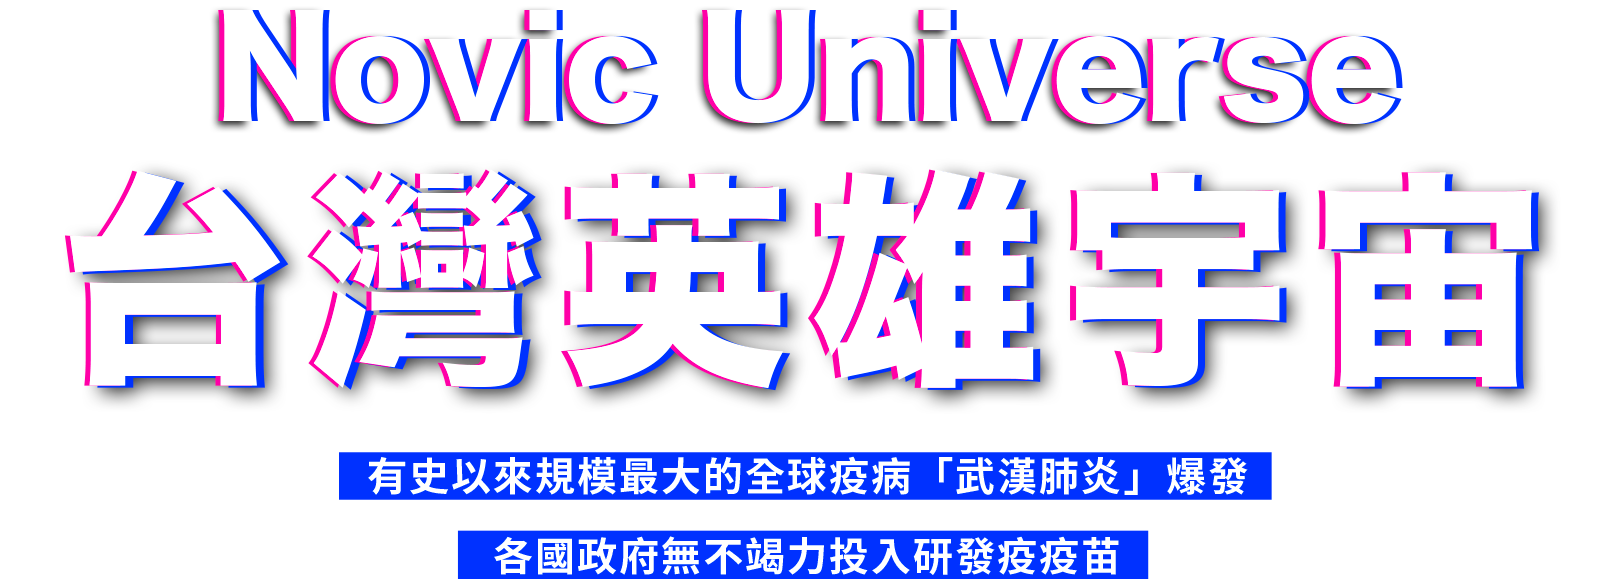
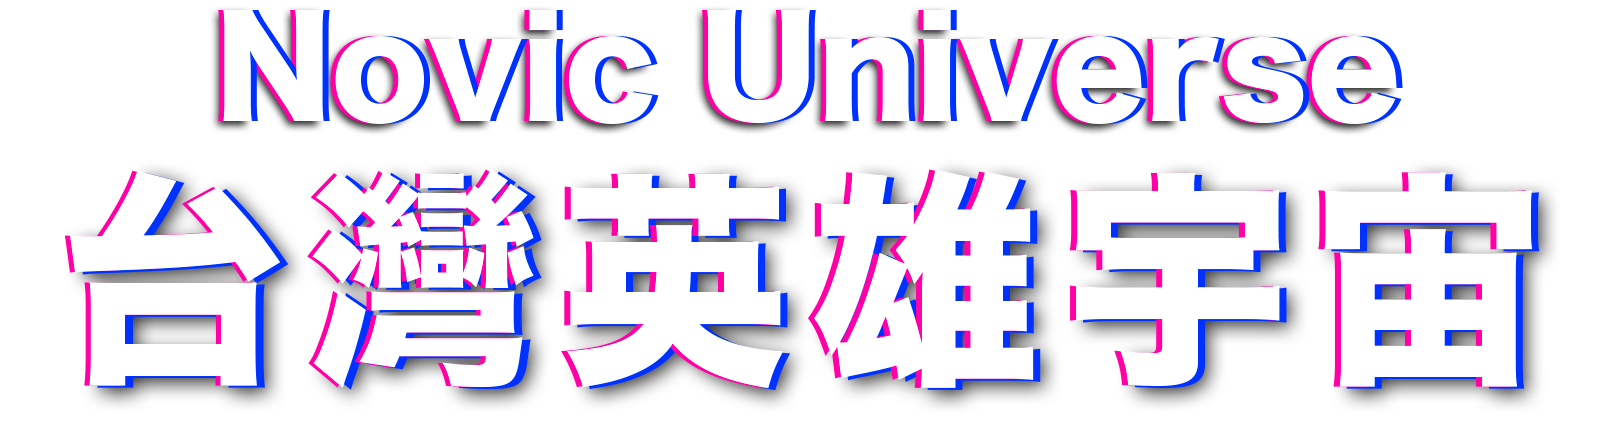
refactor: UI

diff --git a/index.html b/index.html
@@ -65,9 +65,18 @@
   <section id="main" class="pb-5">
     <div id="title">
       <img class="rounded mx-auto d-block logo" src="img/title.png" alt="">
-      <a href="https://lihi1.com/vHdGQ" target="_blank">
-        <img class="rounded mx-auto d-block pt-5 join_button" src="img/join.png" alt="" width="17%">
-      </a>
+
+      <div class="mt-4 d-flex flex-column align-items-center">
+        <h6 class="slogan">有史以來規模最大的全球疫病「武漢肺炎」爆發</h6>
+        <h6 class="mt-1 slogan">各國政府無不竭力投入研發疫疫苗</h6>
+      </div>
+
+      <div class="d-flex justify-content-center mt-4 p-2">
+        <a href="https://lihi1.com/vHdGQ" target="_blank">
+          <img class="rounded join_button" src="img/join.png" alt="Join Discord">
+        </a>
+      </div>
+
       <img src="img/ston_1.png" class="stons" id="ston_1" alt="">
       <img src="img/ston_3.png" class="stons" id="ston_3" alt="">
       <p class="text fw-bold">
@@ -108,15 +117,22 @@
         </div>
         <div class="col-6">
           <img src="img/images/char_1.png" class="d-block w-75 py-5" alt="">
-          <div class="w-50 ps-md-5 py-2">
-            <img src="img/images/change_04.png" class="img-fluid" alt="">
+
+          <div class="ps-md-5 property">
+            <p class="key">本名</p>
+            <p class="value">鄭宇明</p>
           </div>
-          <div class="w-50 ps-md-5 py-2">
-            <img src="img/images/change_07.png" class="img-fluid" alt="">
+
+          <div class="ps-md-5 property">
+            <p class="key">能力</p>
+            <p class="value">外型模變，複製長期記憶</p>
           </div>
-          <div class="w-50 ps-md-5 py-2">
-            <img src="img/images/change_09.png" class="img-fluid" alt="">
+
+          <div class="ps-md-5 property">
+            <p class="key">技能</p>
+            <p class="value">自由搏擊，心理學</p>
           </div>
+
           <div class="text-white w-75 story_text ps-md-5 py-5" >
             鄭宇明是台大心輔諮所博士，精通犯罪心理學的心理師。因為從小一起長大的摯友葉裕修染上毒癮，為就近照顧，鄭宇明畢業後選擇於煙毒勒戒所服務，不久，葉裕修因過量吸食毒品而暴斃。葉裕修的死讓鄭宇明悲痛欲絕，在發現自己的超能力後，為替好友復仇，也為了終結毒品對青少年的危害，鄭宇明潛入販毒集團，靠著模變的超能力及心理學專業知識，企圖從內部瓦解販毒集團。
           </div>
@@ -128,19 +144,27 @@
         <div class="col-5 ps-5 ms-5">
           <img src="img/images/char_2.png" class="d-block w-75 py-3" alt="">
           <div class="ps-md-5 char_subtitle text-white">CPU</div>
-          <div class="w-md-75 ps-md-5 py-2">
-            <img src="img/images/cyber_1.png" class="img-fluid" alt="">
+
+          <div class="ps-md-5 property">
+            <p class="key">本名</p>
+            <p class="value">張杰</p>
           </div>
-          <div class="w-md-75 ps-md-5 py-2">
-            <img src="img/images/cyber_2.png" class="img-fluid" alt="">
+
+          <div class="ps-md-5 property">
+            <p class="key">能力</p>
+            <p class="value">機器語言，能與機械交談，從而進行維修與改造</p>
           </div>
 
           <div class="ps-md-5 char_subtitle text-white">PLAYER 2</div>
-          <div class="w-md-50 ps-md-5 py-2">
-            <img src="img/images/cyber_3.png" class="img-fluid" alt="">
+
+          <div class="ps-md-5 property">
+            <p class="key">本名</p>
+            <p class="value">趙曉鈴</p>
           </div>
-          <div class="w-md-50 ps-md-5 py-2">
-            <img src="img/images/cyber_4.png" class="img-fluid" alt="">
+
+          <div class="ps-md-5 property">
+            <p class="key">能力</p>
+            <p class="value">超人神經，超高速神經傳導，可以自由控制感官的時間流速</p>
           </div>
 
           <div class="text-white story_text ps-md-5 py-5" >
@@ -172,9 +196,13 @@
       不論你想聽故事或者創作故事，<br/>
       都歡迎加入我們的 Discord，一起來擴張 Novic Universe 吧！<br/><br/>
     </strong></p>
-    <a href="https://lihi1.com/vHdGQ" target="_blank">
-      <img class="rounded mx-auto d-block pt-5 join_button" src="img/join.png" alt="" width="17%">
-    </a>
+
+    <div class="d-flex justify-content-center mb-5 p-2">
+      <a href="https://lihi1.com/vHdGQ" target="_blank">
+        <img class="rounded join_button" src="img/join.png" alt="Join Discord">
+      </a>
+    </div>
+
   </section>
   <section id="utility" class="pb-5">
     <img class="rounded d-block pb-5" src="img/utility_ttl.png" alt="" width="66%">
@@ -274,7 +302,7 @@
         </div>
       </div>
       <div class="row justify-content-end mt-5">
-        <div class="col-8 roadmap_content">
+        <div class="col-lg-8 roadmap_content">
           <div class="row w-100 justify-content-center my-5 ps-3">
             <span class="roadmap_block_arrow col-1">
               >

diff --git a/main.css b/main.css
@@ -5,17 +5,20 @@
       url(./font/BIGJOHN.woff2) format('woff2'),
       url(./font/BIGJOHN.ttf) format('truetype');
 }
+
 #nav {
   width: 100%;
-  min-height: 100px;
+  min-height: 5rem;
   padding: 0;
   background-image: -moz-linear-gradient( 5deg, rgb(194,8,128) 0%, rgb(17,60,216) 100%);
   background-image: -webkit-linear-gradient( 5deg, rgb(194,8,128) 0%, rgb(17,60,216) 100%);
   background-image: -ms-linear-gradient( 5deg, rgb(194,8,128) 0%, rgb(17,60,216) 100%);
 }
+
 #nav-content {
   padding-right: 0;
 }
+
 .nav-link {
   display: block;
   text-decoration: none;
@@ -23,16 +26,17 @@
   font-size: 1.3rem;
   padding: 0;
 }
+
 .nav-item {
   min-width: 130px;
-  line-height: 100px;
   text-align: center;
 }
+
 .language {
   float: right;
   color: white;
   font-size: 1.3rem;
-  line-height: 100px;
+  line-height: 5rem;
   width: 130px;
   text-align: center;
   position: relative;
@@ -55,13 +59,19 @@
 .language:hover > .swith_language {
   display: block;
 }
+
 .logo {
   width: 50%;
 }
+
+.join_button {
+  height: 52px;
+}
+
 #main, #vision, #utility, #roadmap, #character, #mint {
   background-repeat: no-repeat;
   background-position: center;
-  background-size: 100% 100% ;
+  background-size: cover, 100%;
   min-width: 100%;
 }
 
@@ -70,17 +80,57 @@
   background-image: url('img/main_bg.jpg');
   position: relative;
 }
+
 #title, .text, #team, footer {
   padding-top: 15rem;
 }
+
+.slogan {
+  color: white;
+  background-color: blue;
+  padding: 0 0.75rem;
+  letter-spacing: 0.1rem;
+}
+
 .text, .footer_text {
   color: white;
   text-align: center;
   line-height: 2;
   font-size: 1.2rem;
 }
+
 p {
   margin-bottom: 0;
+}
+
+.property {
+  display: flex;
+  align-items: flex-start;
+  color: white;
+  font-weight: bold;
+  letter-spacing: 0.1rem;
+  margin-bottom: 1rem;
+  -webkit-touch-callout: none;
+  -webkit-user-select: none;
+  -khtml-user-select: none;
+  -moz-user-select: none;
+  -ms-user-select: none;
+  user-select: none;
+}
+
+.property .key {
+  border: 1.5px solid black;
+  border-right: none;
+  padding: 0.2rem 0.6rem;
+  // background-color: rgb(55, 88, 142);
+  flex-shrink: 0;
+}
+
+.property .value {
+  border: 1.5px solid black;
+  padding: 0.2rem 0.65rem;
+  background-color: black;
+  // flex-grow: 1;
 }
 
 #character {
@@ -97,6 +147,7 @@ p {
 .stons {
   position: absolute;
 }
+
 #ston_1 {
   width: 15rem;
   left: 13rem;
@@ -144,7 +195,7 @@ p {
 #utility {
   display: block;
   background-image: url('img/images/utility_bg_04.png');
-  padding-top: 15rem;
+  padding-top: 10rem;
   padding-bottom: 10rem;
 }
 
@@ -164,6 +215,7 @@ p {
   border-color: rgba(255, 255, 255, 0.2);
   padding: 2rem;
 }
+
 .utility_block:nth-child(2) {
   margin-left: 10%;
 }
@@ -201,6 +253,7 @@ p {
   font-size: 2rem;
   font-weight: bold;
 }
+
 .team_member_intro {
   color: white;
   font-size: 1.2rem;
@@ -233,22 +286,43 @@ p {
   background-image: url('img/images/mint_25.png');
 }
 
+@media(max-width: 992px) {
+  .logo {
+    width: 70%;
+  }
+
+  .utility_block:nth-child(2) {
+    margin-left: 0;
+  }
+}
+
+@media(max-width: 768px) {
+  .logo {
+    width: 80%;
+  }
+}
+
 @media(max-width: 540px) {
   html {
     font-size: 10px;
   }
+
   .language, .swith_language{
     display: none;
   }
+
   .logo, #utility > img {
-    width: 80%;
+    width: 85%;
   }
+
   .join_button {
-    width: 50%;
+    height: 40px;
   }
+
   .stons {
     display: none;
   }
+
   #vision_title {
     width: 60%;
   }
